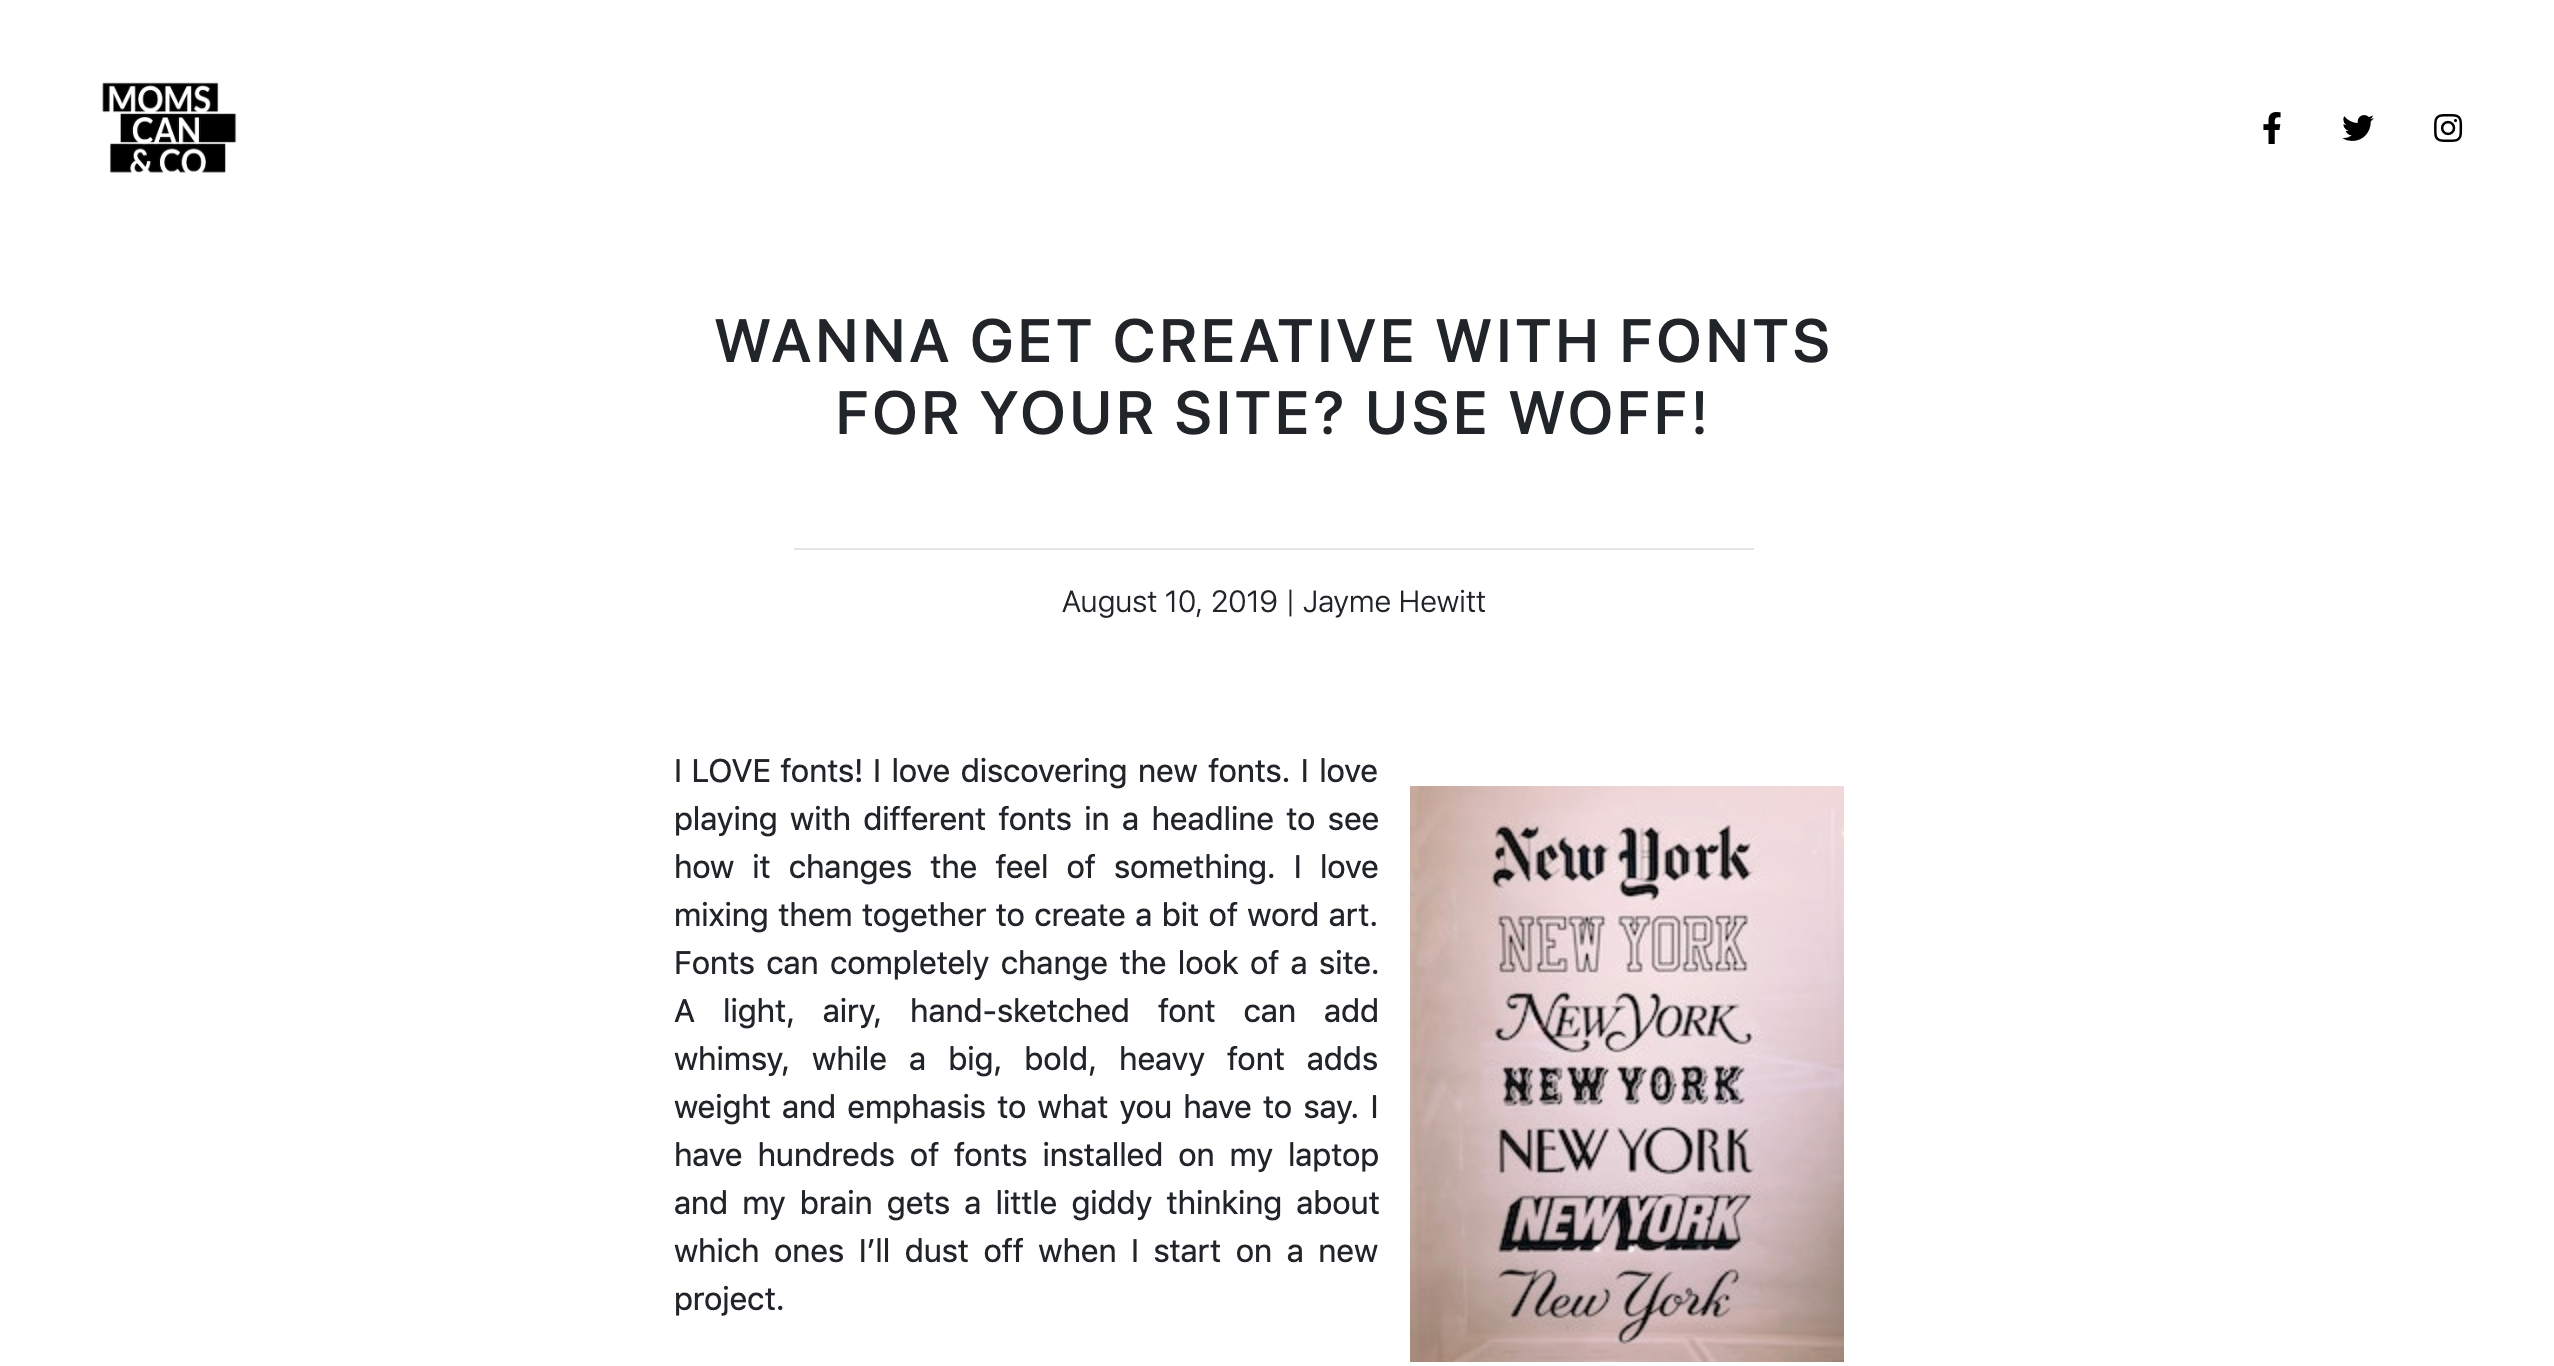
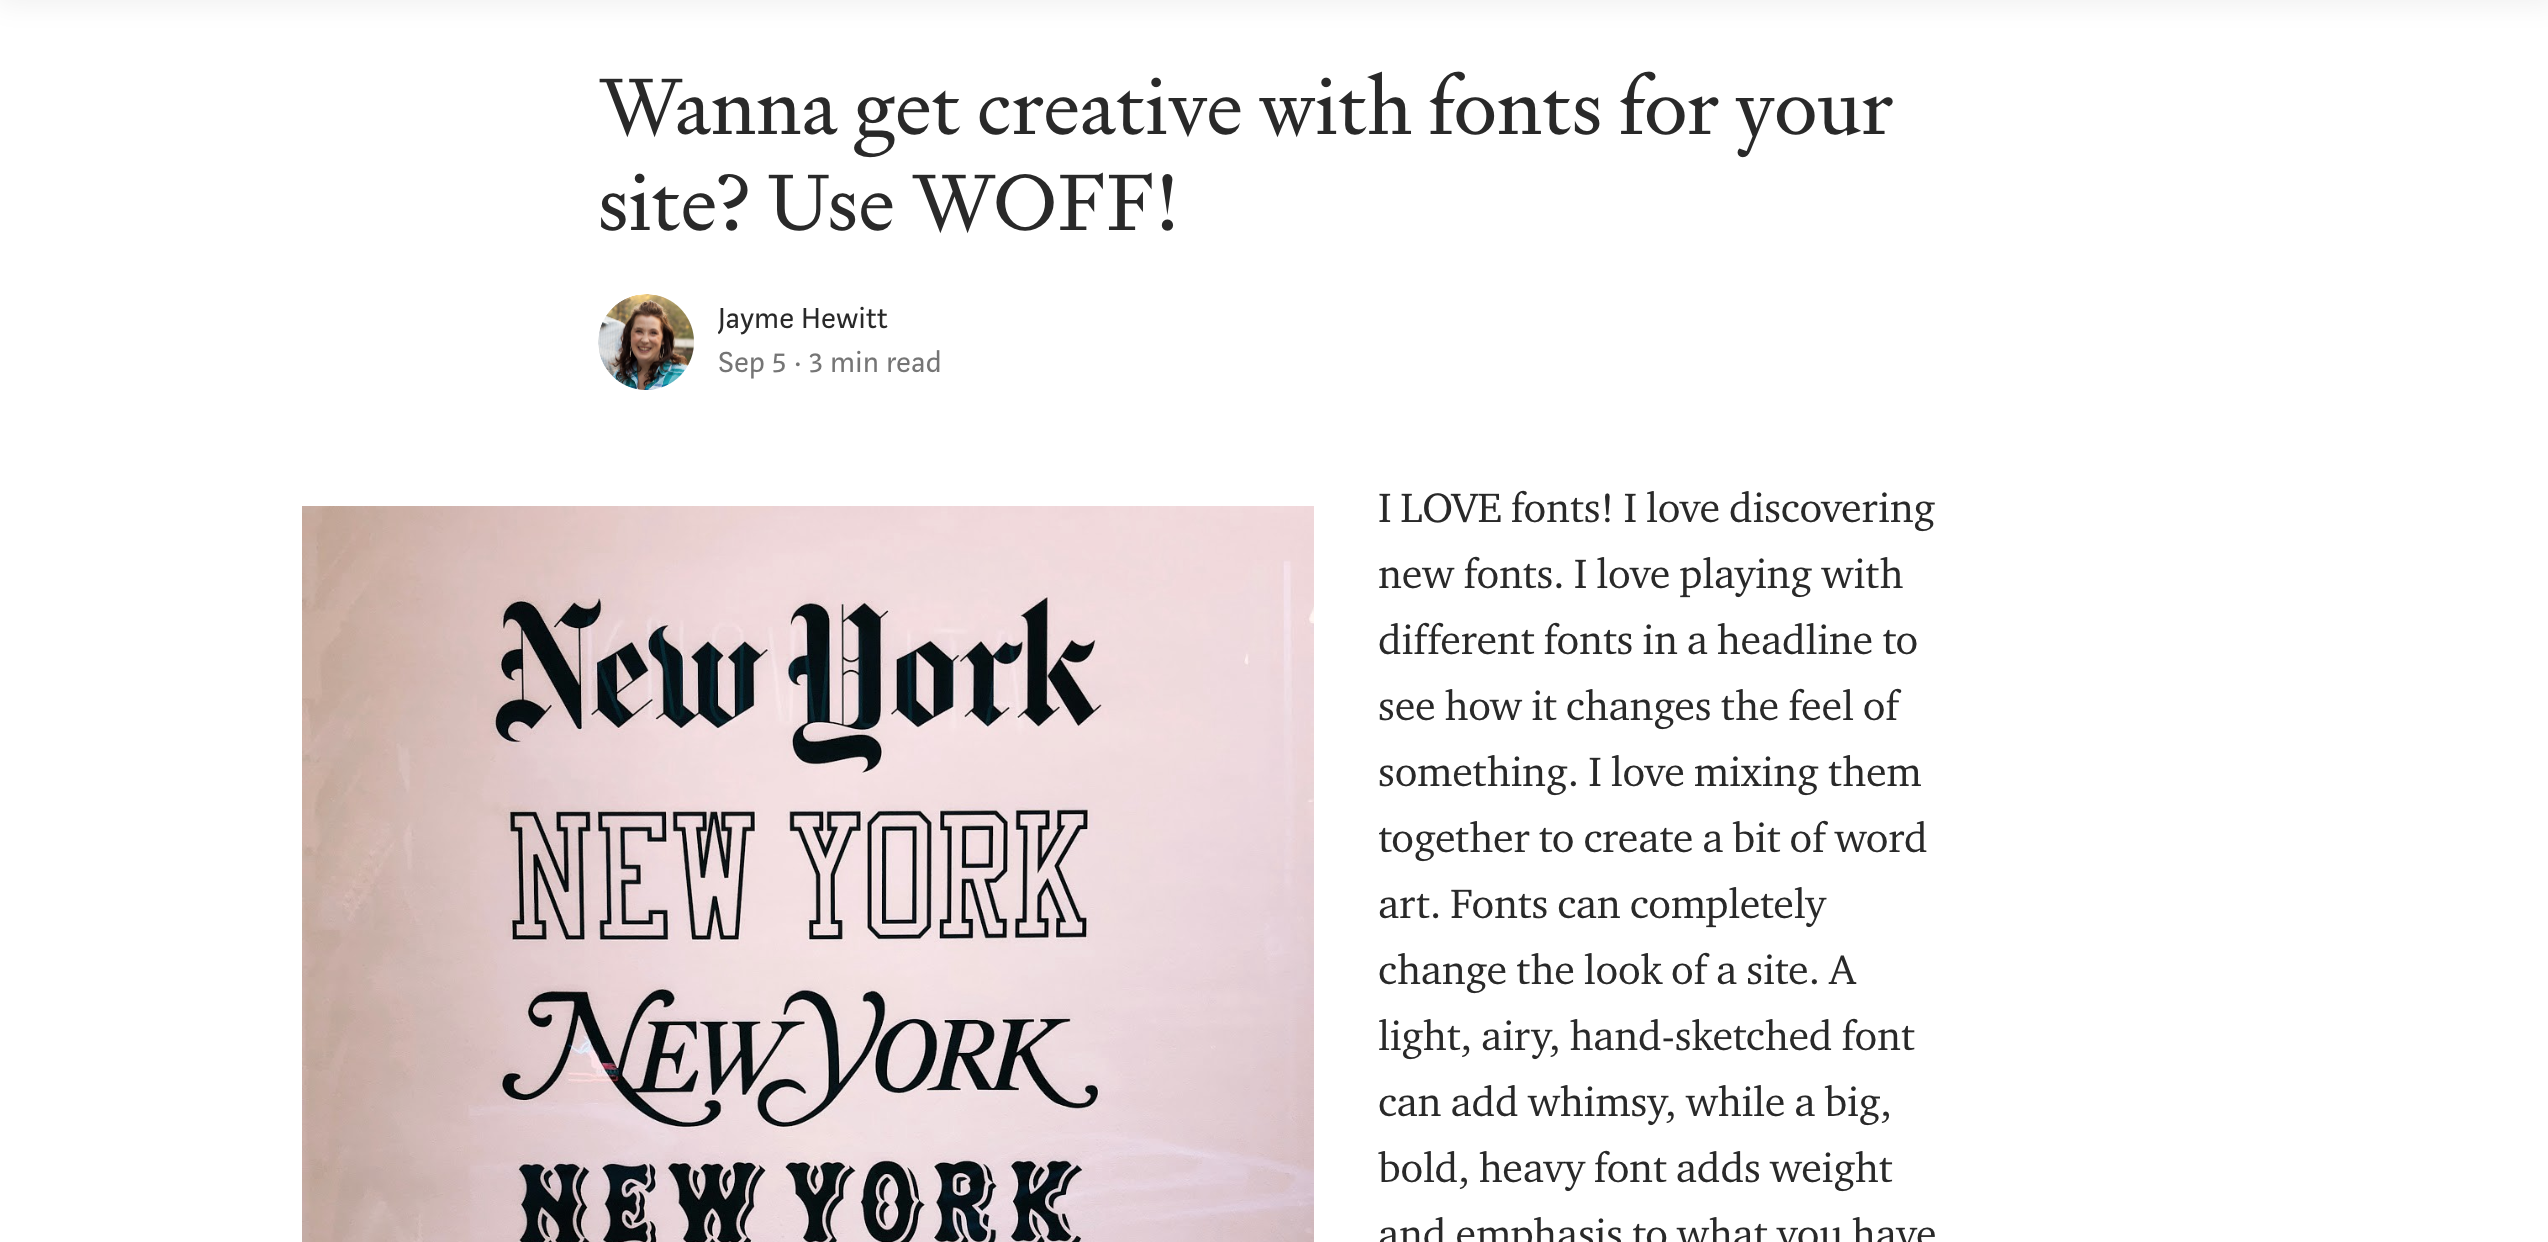
open blogs in new tab

diff --git a/index.html b/index.html
@@ -110,13 +110,13 @@
 						<div class="row">
 						<article class="col-6 col-12-xsmall work-item">
 							<a href="images/developer/blog2.png" class="image fit thumb"><img src="images/developer/blog2.png" alt="Screenshot of blog post" /></a>
-							<h3>August 10, 2019</h3>
-							<p><a href="https://moms-can-co.github.io/blog/hewitt_cohort3_wanna_get_creative_with_fonts_for_your_site_use_woff.html">Wanna Get Creative With Fonts for Your Site? Use WOFF!</a></p>
+							<h3>September 5, 2019</h3>
+							<p><a href="https://medium.com/@jayme_18453/wanna-get-creative-with-fonts-for-your-site-use-woff-3442227f8fab" target="_blank">Wanna Get Creative With Fonts for Your Site? Use WOFF!</a></p>
 						</article>
 						<article class="col-6 col-12-xsmall work-item">
 							<a href="images/developer/blog1.png" class="image fit thumb"><img src="images/developer/blog1.png" alt="product article pic" /></a>
 							<h3>September 5, 2019</h3>
-							<p><a href="https://medium.com/@jayme_18453/building-the-right-thing-an-intro-to-thinking-like-a-product-manager-6eca95b01d35">Building the Right Thing: An Intro to Thinking Like a Product Manager</a></p>
+							<p><a href="https://medium.com/@jayme_18453/building-the-right-thing-an-intro-to-thinking-like-a-product-manager-6eca95b01d35" target="_blank">Building the Right Thing: An Intro to Thinking Like a Product Manager</a></p>
 						</article>
 						</div>
 					</section>
